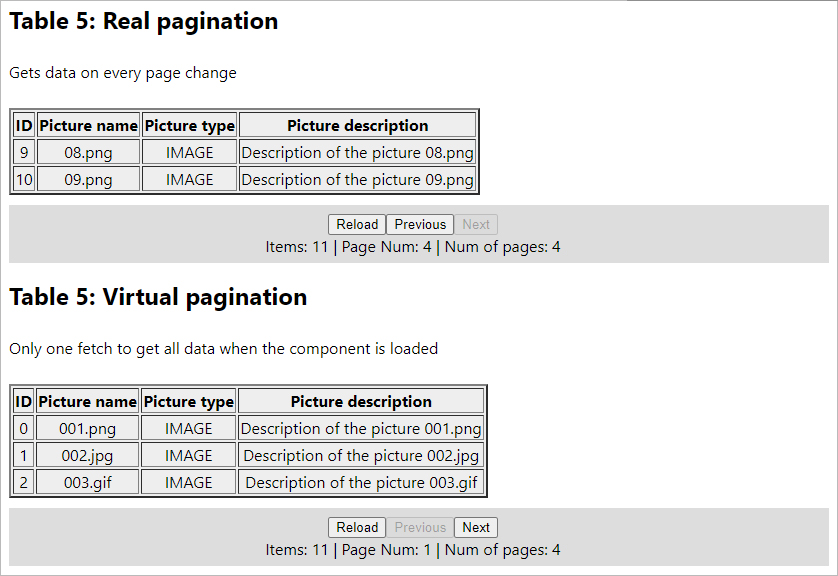
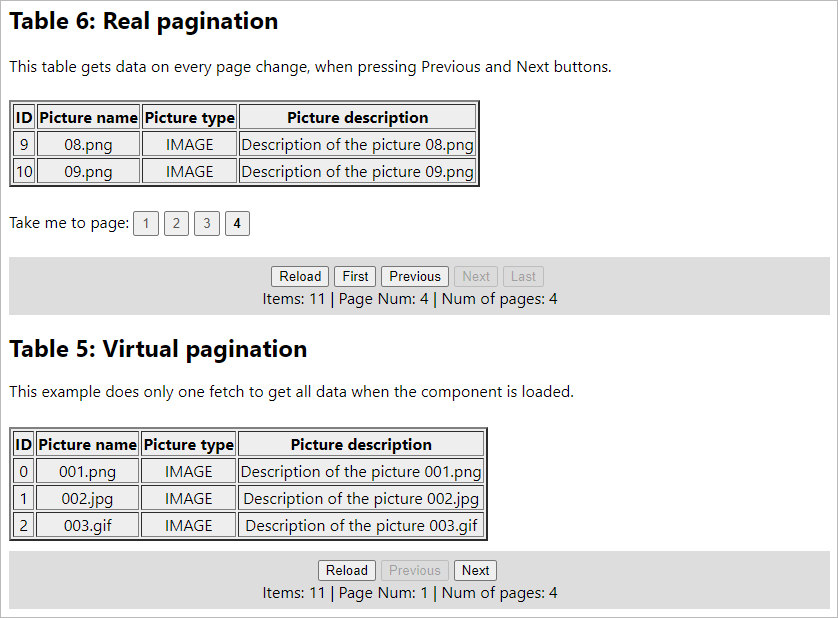
New component GoToPage

Changed region(s): [[0.0, 0.0938, 0.9928, 0.9688], [0.0, 0.0, 0.3413, 0.0625]]

diff --git a/src/components/table6/index.js b/src/components/table6/index.js
@@ -1,5 +1,6 @@
 import React from 'react';
 import { Component } from 'react';
+import GoToPage from './../goToPage';
 
 const DATA_URL = 'http://localhost:9003/pictures2'; // Examples: http://localhost:9003/pictures?page=0 OR http://localhost:9003/pictures?page=0&rows=1
 
@@ -17,7 +18,7 @@ class Table extends Component {
     }
 
     handleErrors(response) {
-        console.log("Err 1!");
+        console.log("Check if Err 1!");
         if (!response.ok) {
             throw Error(response.statusText);
         }
@@ -36,7 +37,8 @@ class Table extends Component {
                 this.setState({
                     "data": data.data,
                     "numOfItems": data.numOfItems *1,
-                    "page": data.pageNum *1
+                    "page": data.pageNum *1,
+                    "error": false
                 });
             })
             .catch((err) => {
@@ -49,15 +51,11 @@ class Table extends Component {
     }
 
     btnNextPage = () => {
-        var p = this.state.page;
-        console.log("next! page: ", p++ );
-        this.getDataFromBack(p);
+        this.getDataFromBack(this.state.page +1);
     }
 
     btnPreviousPage = () => {
-        var p = this.state.page;
-        console.log("previous! page: ", p-- );
-        this.getDataFromBack(p);
+        this.getDataFromBack(this.state.page -1);
     }
 
     btnFirstPage = () => {
@@ -66,6 +64,10 @@ class Table extends Component {
 
     btnLastPage = () => {
         this.getDataFromBack( this.getNumOfPages() -1 );
+    }
+
+    goToPage = ( pageNum ) => {
+        this.getDataFromBack(pageNum);
     }
 
     getNumOfPages = () => {
@@ -109,8 +111,9 @@ class Table extends Component {
                     }
                 </tbody>
             </table>
+            { (data && !error ) && <GoToPage currentPage={this.state.page} numOfPages={numOfPages} selectPageFunc={this.goToPage}></GoToPage> }
             <div className="controls">
-                <button className="reload-btn" disabled={data === null} onClick={this.btnReload}>Reload</button>
+                <button className="reload-btn" onClick={this.btnReload}>Reload</button>
                 <button className="first-page-btn" disabled={data === null || this.state.page === 0} onClick={this.btnFirstPage}>First</button>
                 <button className="previous-page-btn" disabled={data === null || this.state.page === 0} onClick={this.btnPreviousPage}>Previous</button>
                 <button className="next-page-btn" disabled={data === null || (page+1) === numOfPages} onClick={this.btnNextPage}>Next</button> 

diff --git a/src/components/goToPage/index.js b/src/components/goToPage/index.js
@@ -1,0 +1,31 @@
+import { Component } from 'react';
+
+export default class GoToPage extends Component {
+    
+    btnGoTo = ( pageNum ) => {
+        if (this.props.selectPageFunc) this.props.selectPageFunc ( pageNum );
+    }
+    
+    render() {
+        var { currentPage, numOfPages } = this.props;
+        var items = new Array(numOfPages).fill(0); // LOL: Use fill or map just will not iterate over the array.        
+        return (
+            <>
+                <style>{`
+                    .btnGoTo {
+                        padding: 3px 7px;
+                        color:   #585858;
+                        cursor: pointer;
+                    }
+                    .current {
+                        font-weight: bold;
+                        color: black;
+                    }
+                `}</style>
+                <p>
+                    Take me to page: { items.map(( item, index ) => <button key={index} className={(index == currentPage)?'btnGoTo current' :'btnGoTo'} onClick={ () => this.btnGoTo(index) }>{index +1}</button> ) }
+                </p>
+            </>
+        );
+    }
+}

diff --git a/src/App.css b/src/App.css
@@ -1,42 +1,3 @@
-.App {
-  text-align: center;
-}
-
-.App-logo {
-  height: 40vmin;
-  pointer-events: none;
-}
-
-@media (prefers-reduced-motion: no-preference) {
-  .App-logo {
-    animation: App-logo-spin infinite 20s linear;
-  }
-}
-
-.App-header {
-  background-color: #282c34;
-  min-height: 100vh;
-  display: flex;
-  flex-direction: column;
-  align-items: center;
-  justify-content: center;
-  font-size: calc(10px + 2vmin);
-  color: white;
-}
-
-.App-link {
-  color: #61dafb;
-}
-
-@keyframes App-logo-spin {
-  from {
-    transform: rotate(0deg);
-  }
-  to {
-    transform: rotate(360deg);
-  }
-}
-
 body {
   padding-bottom: 32px;
 }
@@ -44,4 +5,28 @@ body {
 button{
   cursor: pointer;
   margin-right: 5px;
+}
+
+.table {
+  background-color: #eeeeee;
+  margin: 10px;
+  text-align: center;
+}
+
+.controls{
+  background-color: #dddddd;
+  margin: 10px;
+  padding: 7px;
+  text-align: center;
+}
+
+h1 {
+  text-align: left;
+  padding-left: 10px;
+  font-size: 1.5em;
+}
+
+p {
+  text-align: left;
+  padding: 10px;
 }

diff --git a/src/components/table5/index.js b/src/components/table5/index.js
@@ -24,7 +24,7 @@ class Table extends Component {
                 // Work with JSON data here
                 console.log(data)
 
-                this.setState({"data": data.data});
+                this.setState({"data": data.data, "error": false});
             })
             .catch((err) => {
                 // Do something for an error here
@@ -96,7 +96,7 @@ class Table extends Component {
                 </tbody>
             </table>
             <div className="controls">
-                <button className="reload-btn" disabled={data === null} onClick={this.btnReload}>Reload</button>
+                <button className="reload-btn" onClick={this.btnReload}>Reload</button>
                 <button className="previous-page-btn" disabled={data === null || this.state.page === 0} onClick={this.btnPreviousPage}>Previous</button>
                 <button className="next-page-btn" disabled={data === null || (page+1) === numOfPages} onClick={this.btnNextPage}>Next</button> 
                 <br/>

diff --git a/src/components/likeDislike/index.js b/src/components/likeDislike/index.js
@@ -80,11 +80,12 @@ export default class LikeDislike extends Component {
         if ( dislike ) strDisLikeclass += " disliked";
         
         return (
-            <>
-                <div>
-                    <h3>For sure you like all this examples!</h3>
-                </div>
+            <div className="likeDislike">
+                <h4>For sure you like all this examples!</h4>
                 <style>{`
+                    .likeDislike {
+                        text-align: center;
+                    }
                     .like-button, .dislike-button {
                         font-size: 1rem;
                         padding: 5px 10px;
@@ -107,7 +108,7 @@ export default class LikeDislike extends Component {
                 </div>
                 <br/>
                 By Andres!
-            </>
+            </div>
         );
     }
 }

diff --git a/src/App.js b/src/App.js
@@ -16,6 +16,7 @@ function App() {
         <Table3 title={'Table 3: Real fetch from back'}></Table3>
         <Table2 title={'Table 2: Show loading ...'}></Table2>
         <Table1 title={'1st table'}></Table1>
+        <hr/>
         <LikeDislike></LikeDislike>
     </div>
   );

diff --git a/src/components/table1/index.js b/src/components/table1/index.js
@@ -1,6 +1,5 @@
 import React from 'react';
 import { Component } from 'react';
-import './index.css';
 
 class Table extends Component {
 
